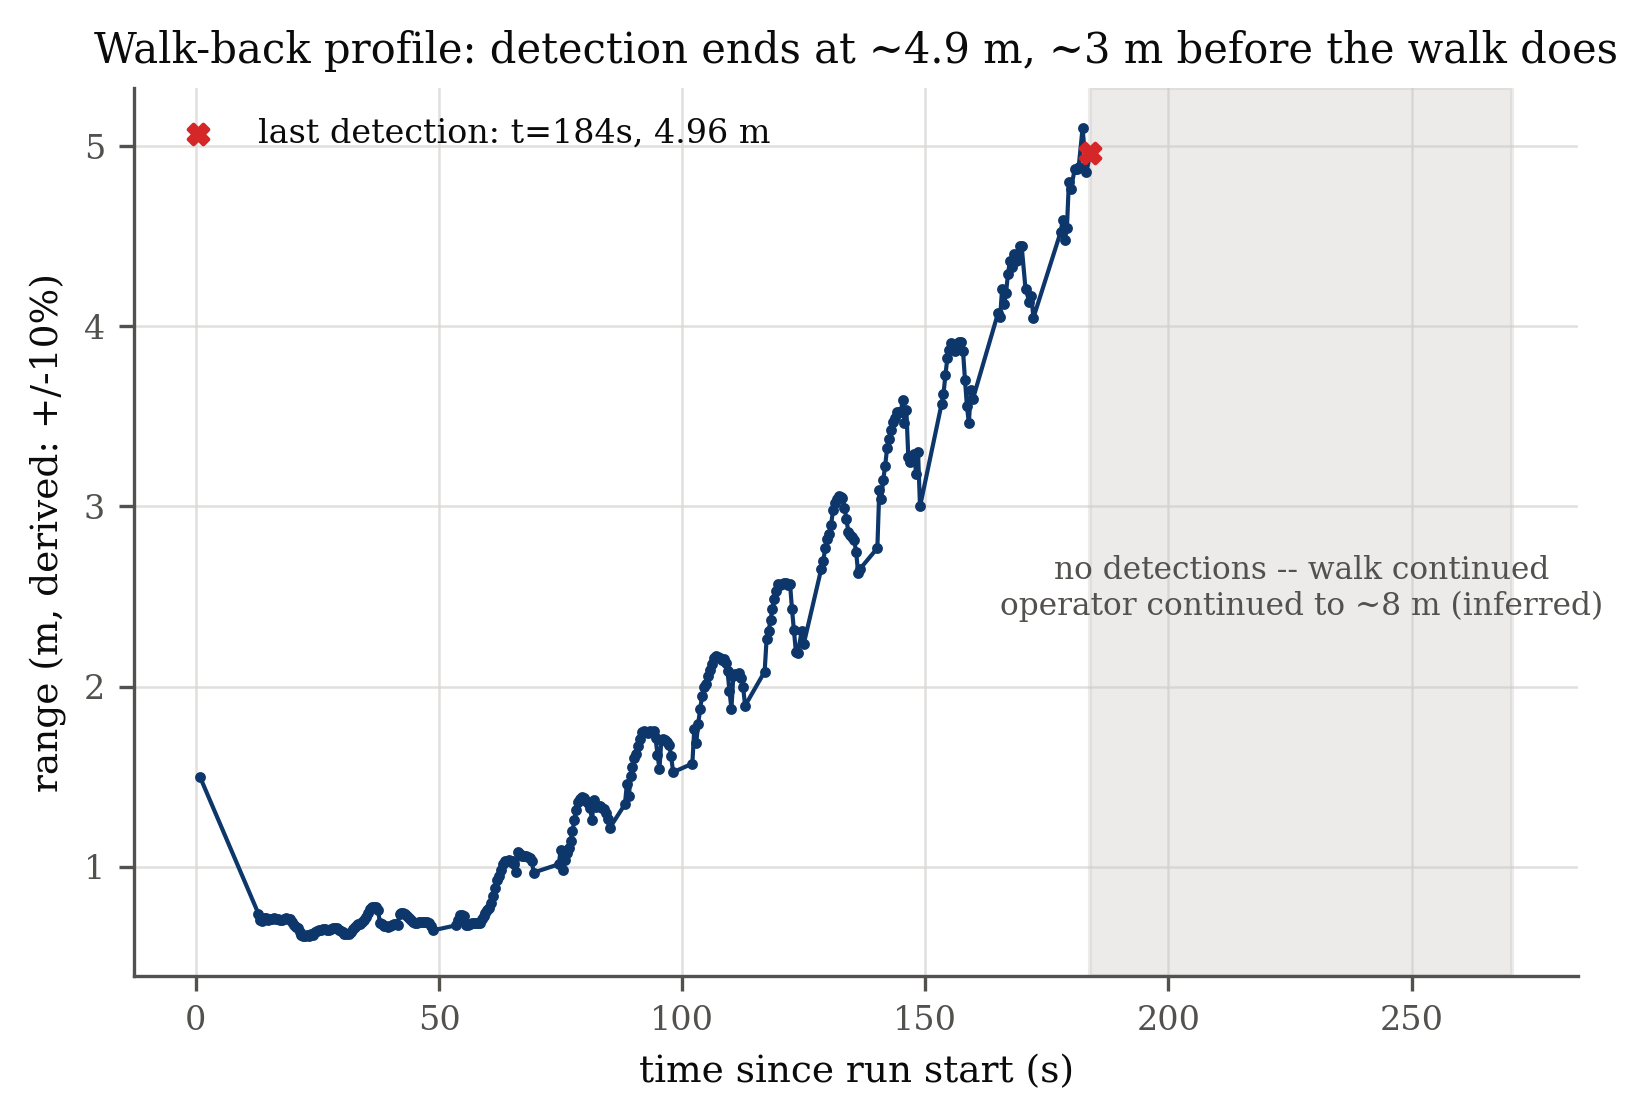
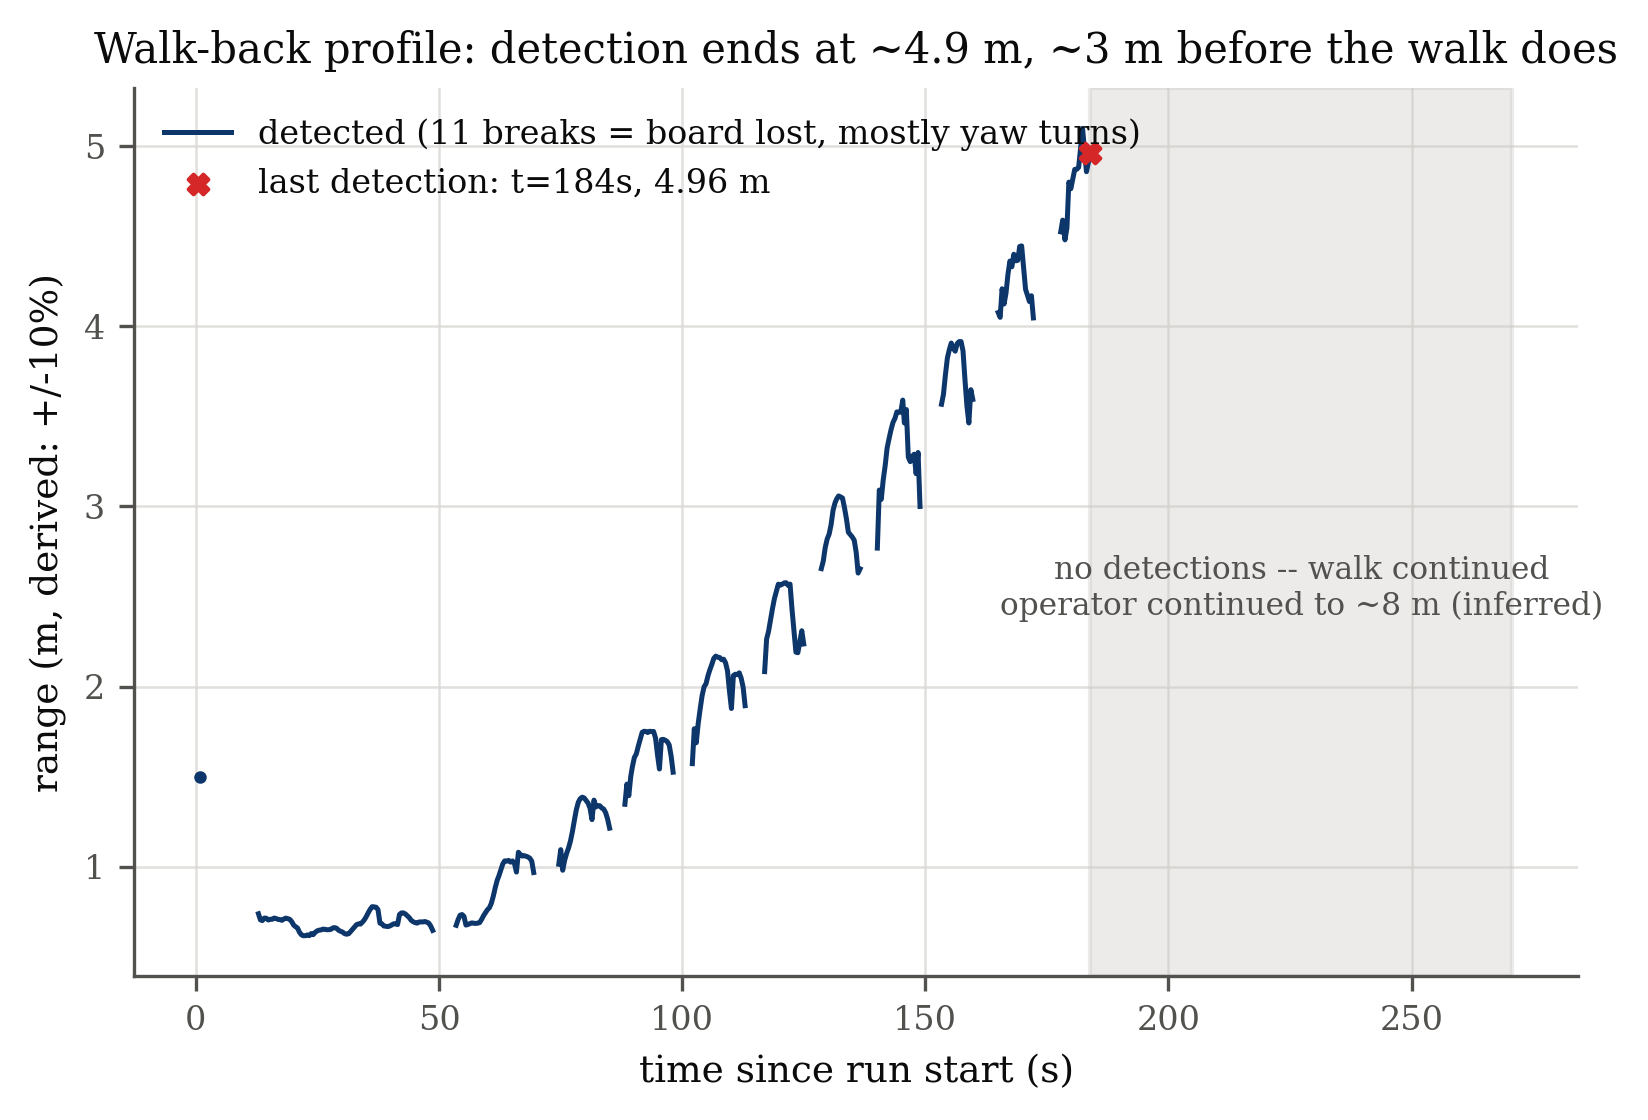
results(aruco): walk-back trace as a broken line
Regenerated from alanchoi00/underwater-aruco-validation@a737503.
The 11 breaks are real detection dropouts (yaw turns losing the board), not styling --
a continuous line would interpolate through a 12 s hole. Figures only; no number changed.

Refs #2.

diff --git a/report/final/data/aruco/summary.md b/report/final/data/aruco/summary.md
@@ -1,6 +1,6 @@
 # Results summary
 
-- Analysis code: `alanchoi00/underwater-aruco-validation@f1fcec4`
+- Analysis code: `alanchoi00/underwater-aruco-validation@a737503`
 - OpenCV: `4.10.0`
 - Fitted law: `max_range ~ 34.9 x side_length`
 - Host CPU (latency context): `11th Gen Intel(R) Core(TM) i7-11800H @ 2.30GHz`